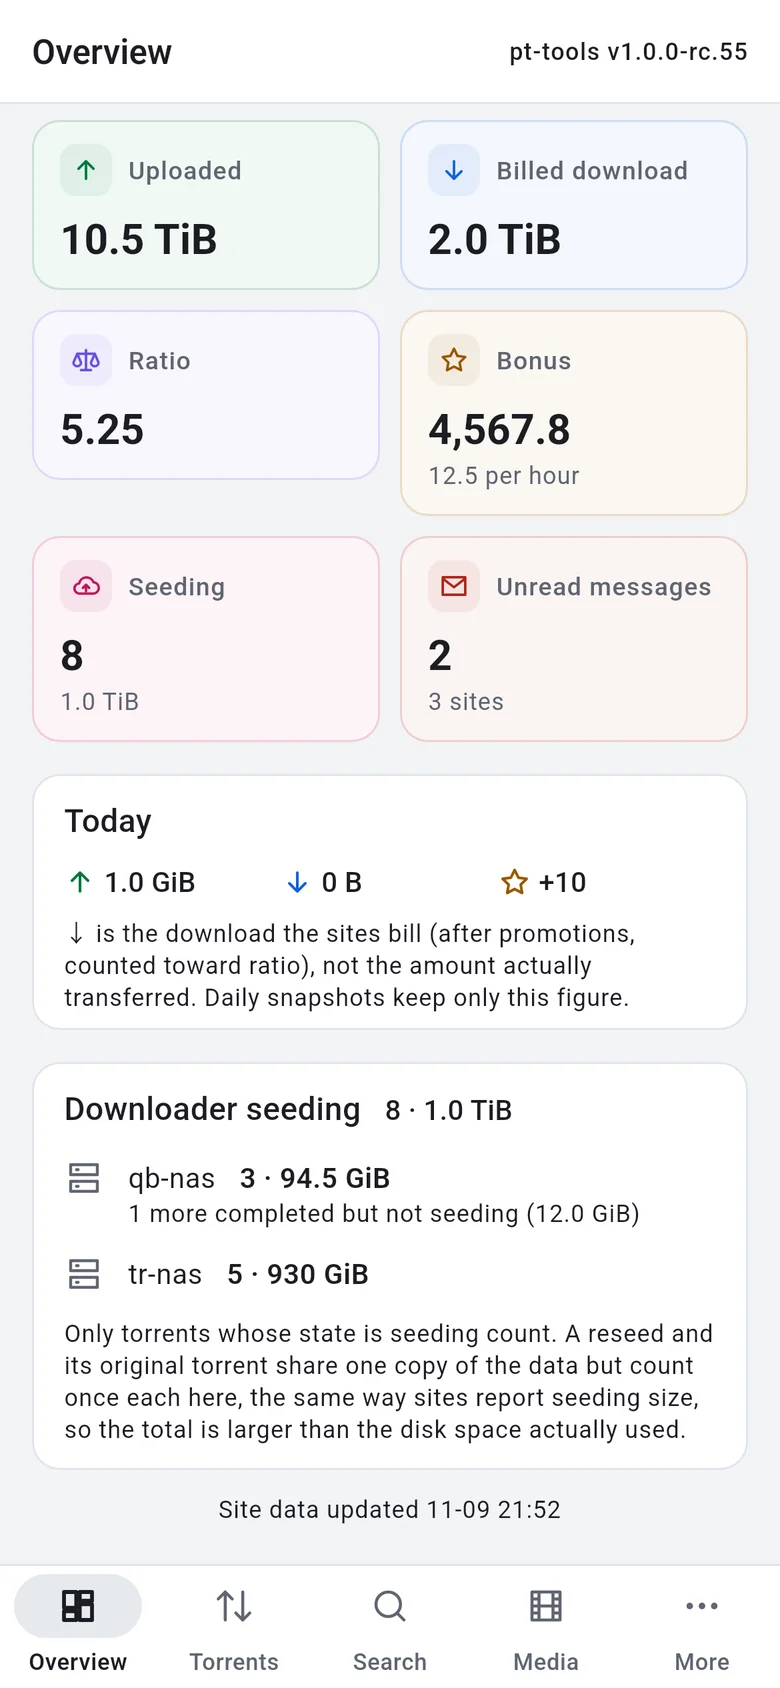
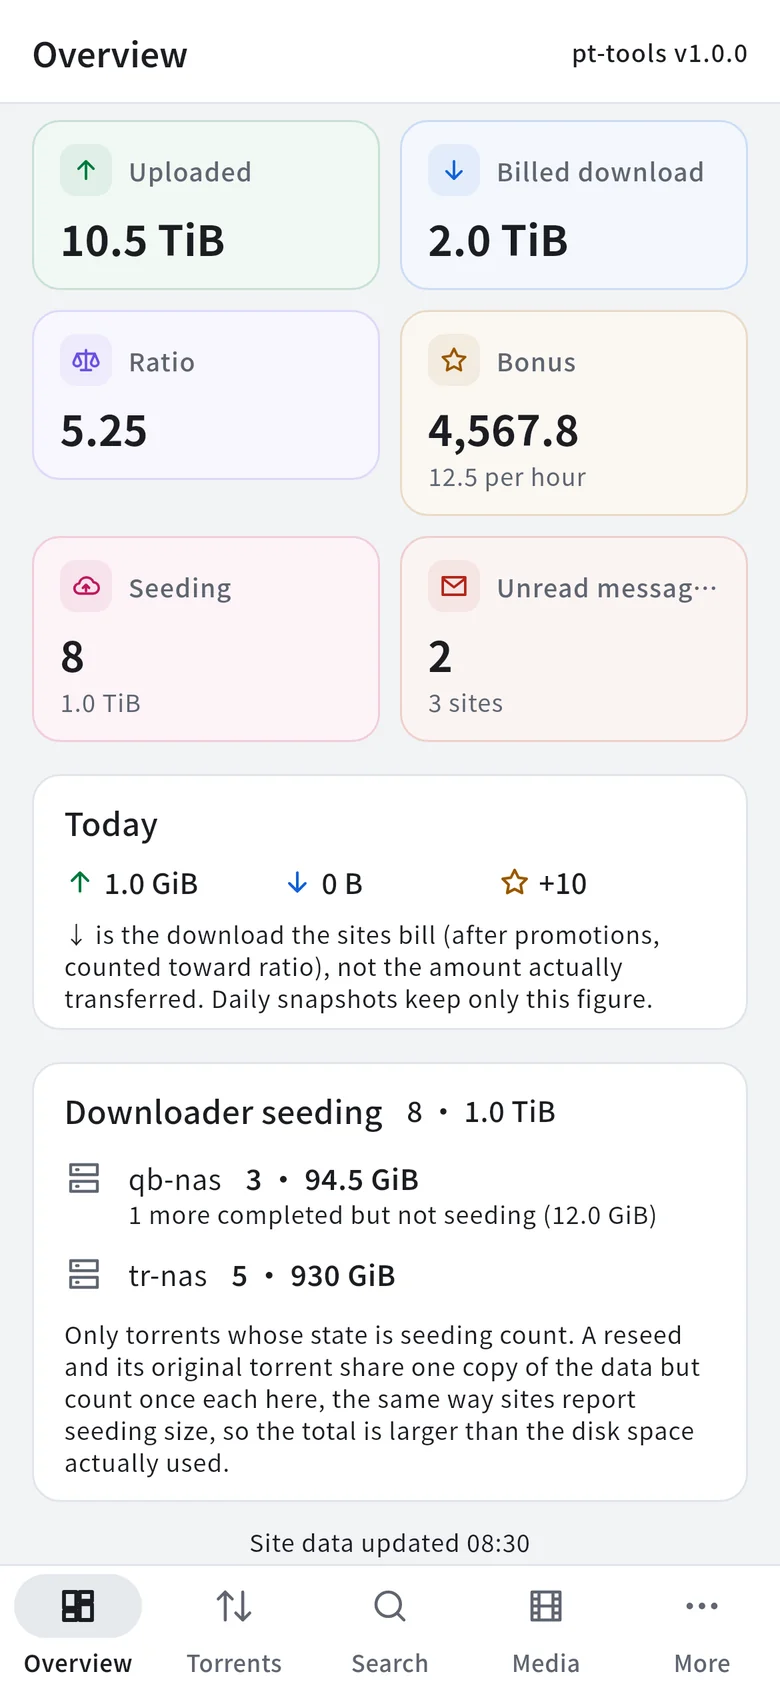
docs: App 截图按 v1.0.0 重拍，扩展图标的描述换成新标志，写明三项预览版设置都删时要带 Release-As

diff --git a/docs/development.md b/docs/development.md
@@ -627,7 +627,7 @@ make build-extension  # 站点一致性检查 + 构建 + 打包 zip
 现在按稳定版发版：`release-please-config.json` 的根包里没有预览版的设置，release PR 的版本不带后缀。预览版和稳定版一样只从受保护的 `main` 发布；要先发几个预览版时，在根包里加上 `"versioning": "prerelease"`、`"prerelease": true` 与 `"prerelease-type": "rc.1"`，其中 `"prerelease": true` 是开关：
 
 - 开启时，release PR 的版本带 `-rc.N`：从稳定版开始取下一个版本的 `rc.1`（`0.48.0` → `0.49.0-rc.1`），之后只递增 `N`（`0.49.0-rc.1` → `0.49.0-rc.2`）。draft 标为预发布，公开时不设为 Latest；安装说明使用 `.github/release-notes/rc-footer.md`；不提交 Edge 商店；容器镜像只推版本号标签，不更新 `latest` 与 `主.次`、`主` 标签。
-- 删除 `"prerelease": true` 即回到稳定版：下一个 release PR 去掉后缀（`0.49.0-rc.2` → `0.49.0`），另外两项可以保留。
+- 删除 `"prerelease": true` 即回到稳定版：下一个 release PR 去掉后缀（`0.49.0-rc.2` → `0.49.0`），另外两项可以保留。三项都删掉时，默认的版本策略会把 `-rc.N` 原样带到下一版（`1.0.0-rc.60` 加一个 feat 是 `1.1.0-rc.60`），而且没有了开关，这一版会按稳定版公开、设为 Latest、提交 Edge：所以那次合进 `main` 的提交正文要带 `Release-As: X.Y.Z`（1.0.0 就是这样发的），合并 release PR 以前核对标题正好是 `chore: release X.Y.Z`。
 - 扩展 manifest 的版本只能从 `rc.N`（N 为 1–65534）推导（`.github/scripts/extension-version.sh`），所以 `prerelease-type` 必须是 `rc.1`，不能写成 `rc` 或 `beta`。
 - 手机 App 的构建号也从版本推导（`.github/scripts/mobile-build-number.sh`），`rc.N` 的 N 不能超过 98，次版本与修订号不能超过 99，见下面的[手机 App 发版](#手机-app-发版)。
 

diff --git a/docs/en/guide/get-cookie-apikey.md b/docs/en/guide/get-cookie-apikey.md
@@ -39,7 +39,7 @@ Firefox can only load it temporarily; the steps are in [Browser extension](brows
    - Edge → `edge://extensions`
 4. Turn on **Developer mode** at the top right
 5. Click **Load unpacked** and choose the unpacked folder
-6. The extension's icon appears in the toolbar (the same icon as pt-tools: a teal chevron and an orange block on a dark square)
+6. The extension's icon appears in the toolbar (the same icon as pt-tools: a white seed with the letter p cut out of it, on a dark rounded square)
 7. Click the icon for the first time and choose **🔓 Grant & Enable** to give it the permissions it needs
 
 ### Connecting to pt-tools

diff --git a/docs/guide/get-cookie-apikey.md b/docs/guide/get-cookie-apikey.md
@@ -37,7 +37,7 @@ Firefox 只能临时载入，步骤见[浏览器扩展](browser-extension.md)。
    - Edge → `edge://extensions`
 4. 开启右上角「**开发者模式**」
 5. 点击「**加载已解压的扩展程序**」，选择解压后的目录
-6. 扩展图标出现在浏览器工具栏（与 pt-tools 相同的图标：深色方块上一个青色箭头和一个橙色方块）
+6. 扩展图标出现在浏览器工具栏（与 pt-tools 相同的图标：深色圆角方块上一枚白色种子，种子里镂空出字母 p）
 7. 首次点击扩展图标，点击「**🔓 授权并启用**」授予所需权限
 
 ### 连接到 pt-tools
